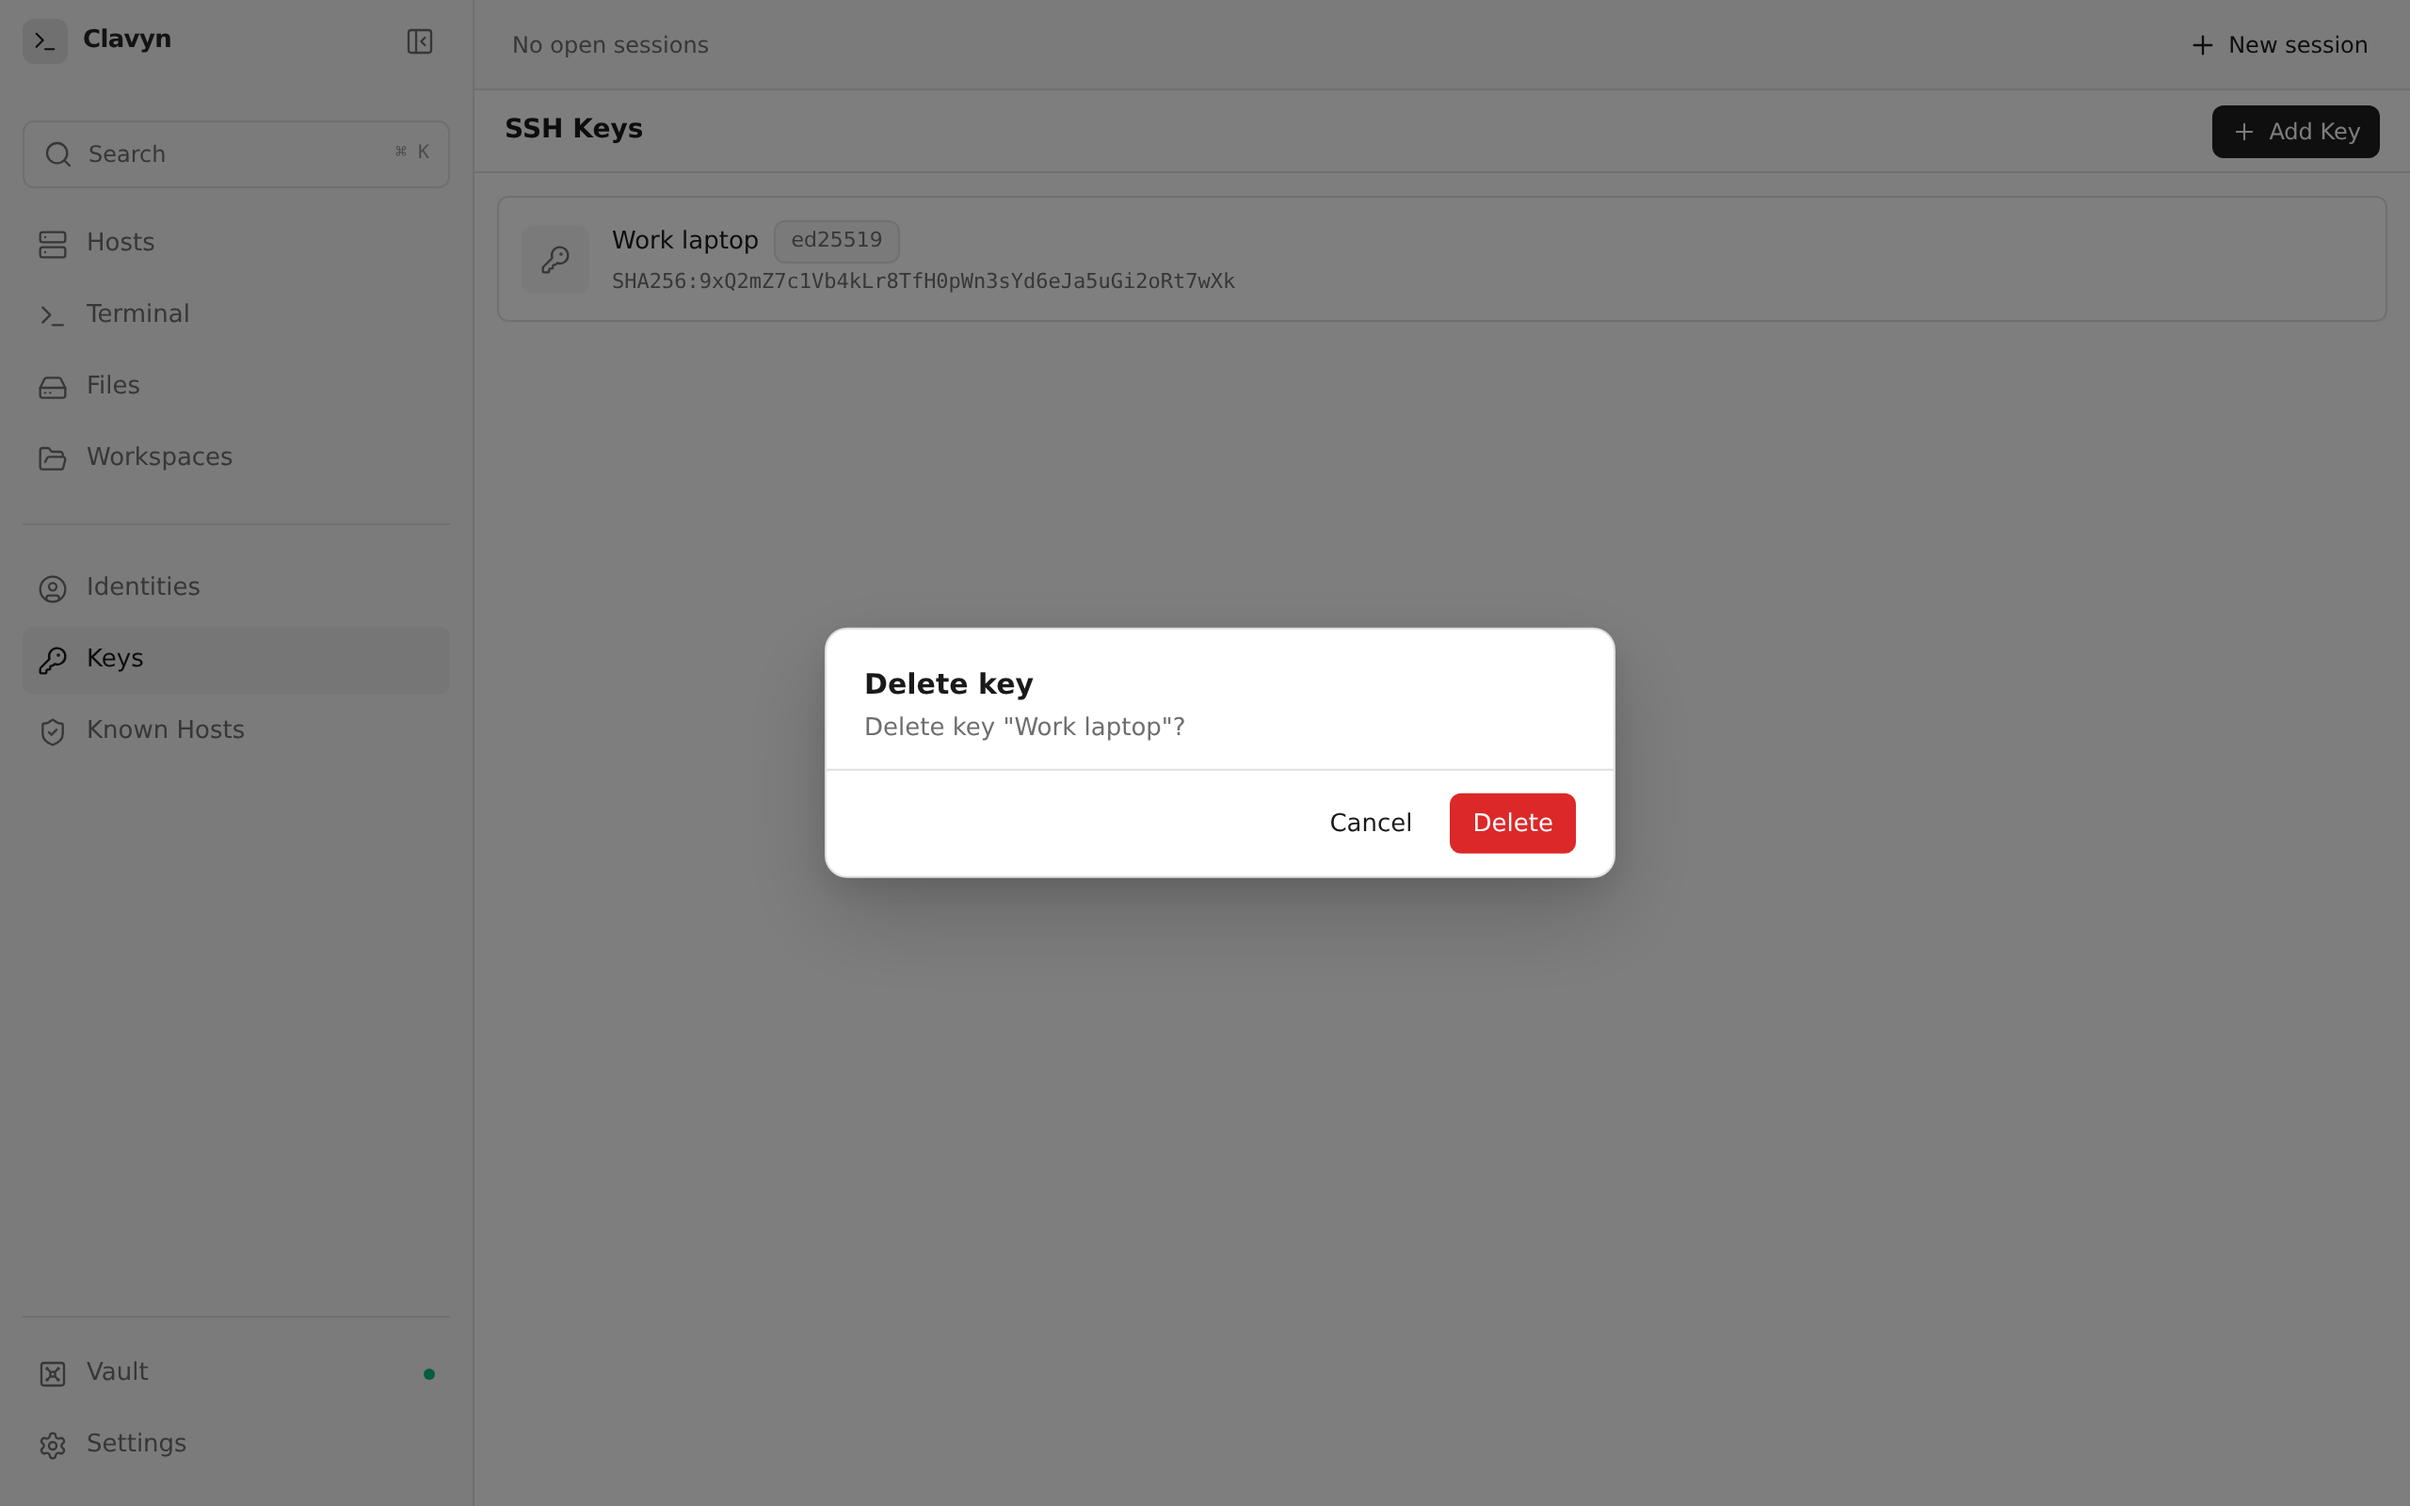
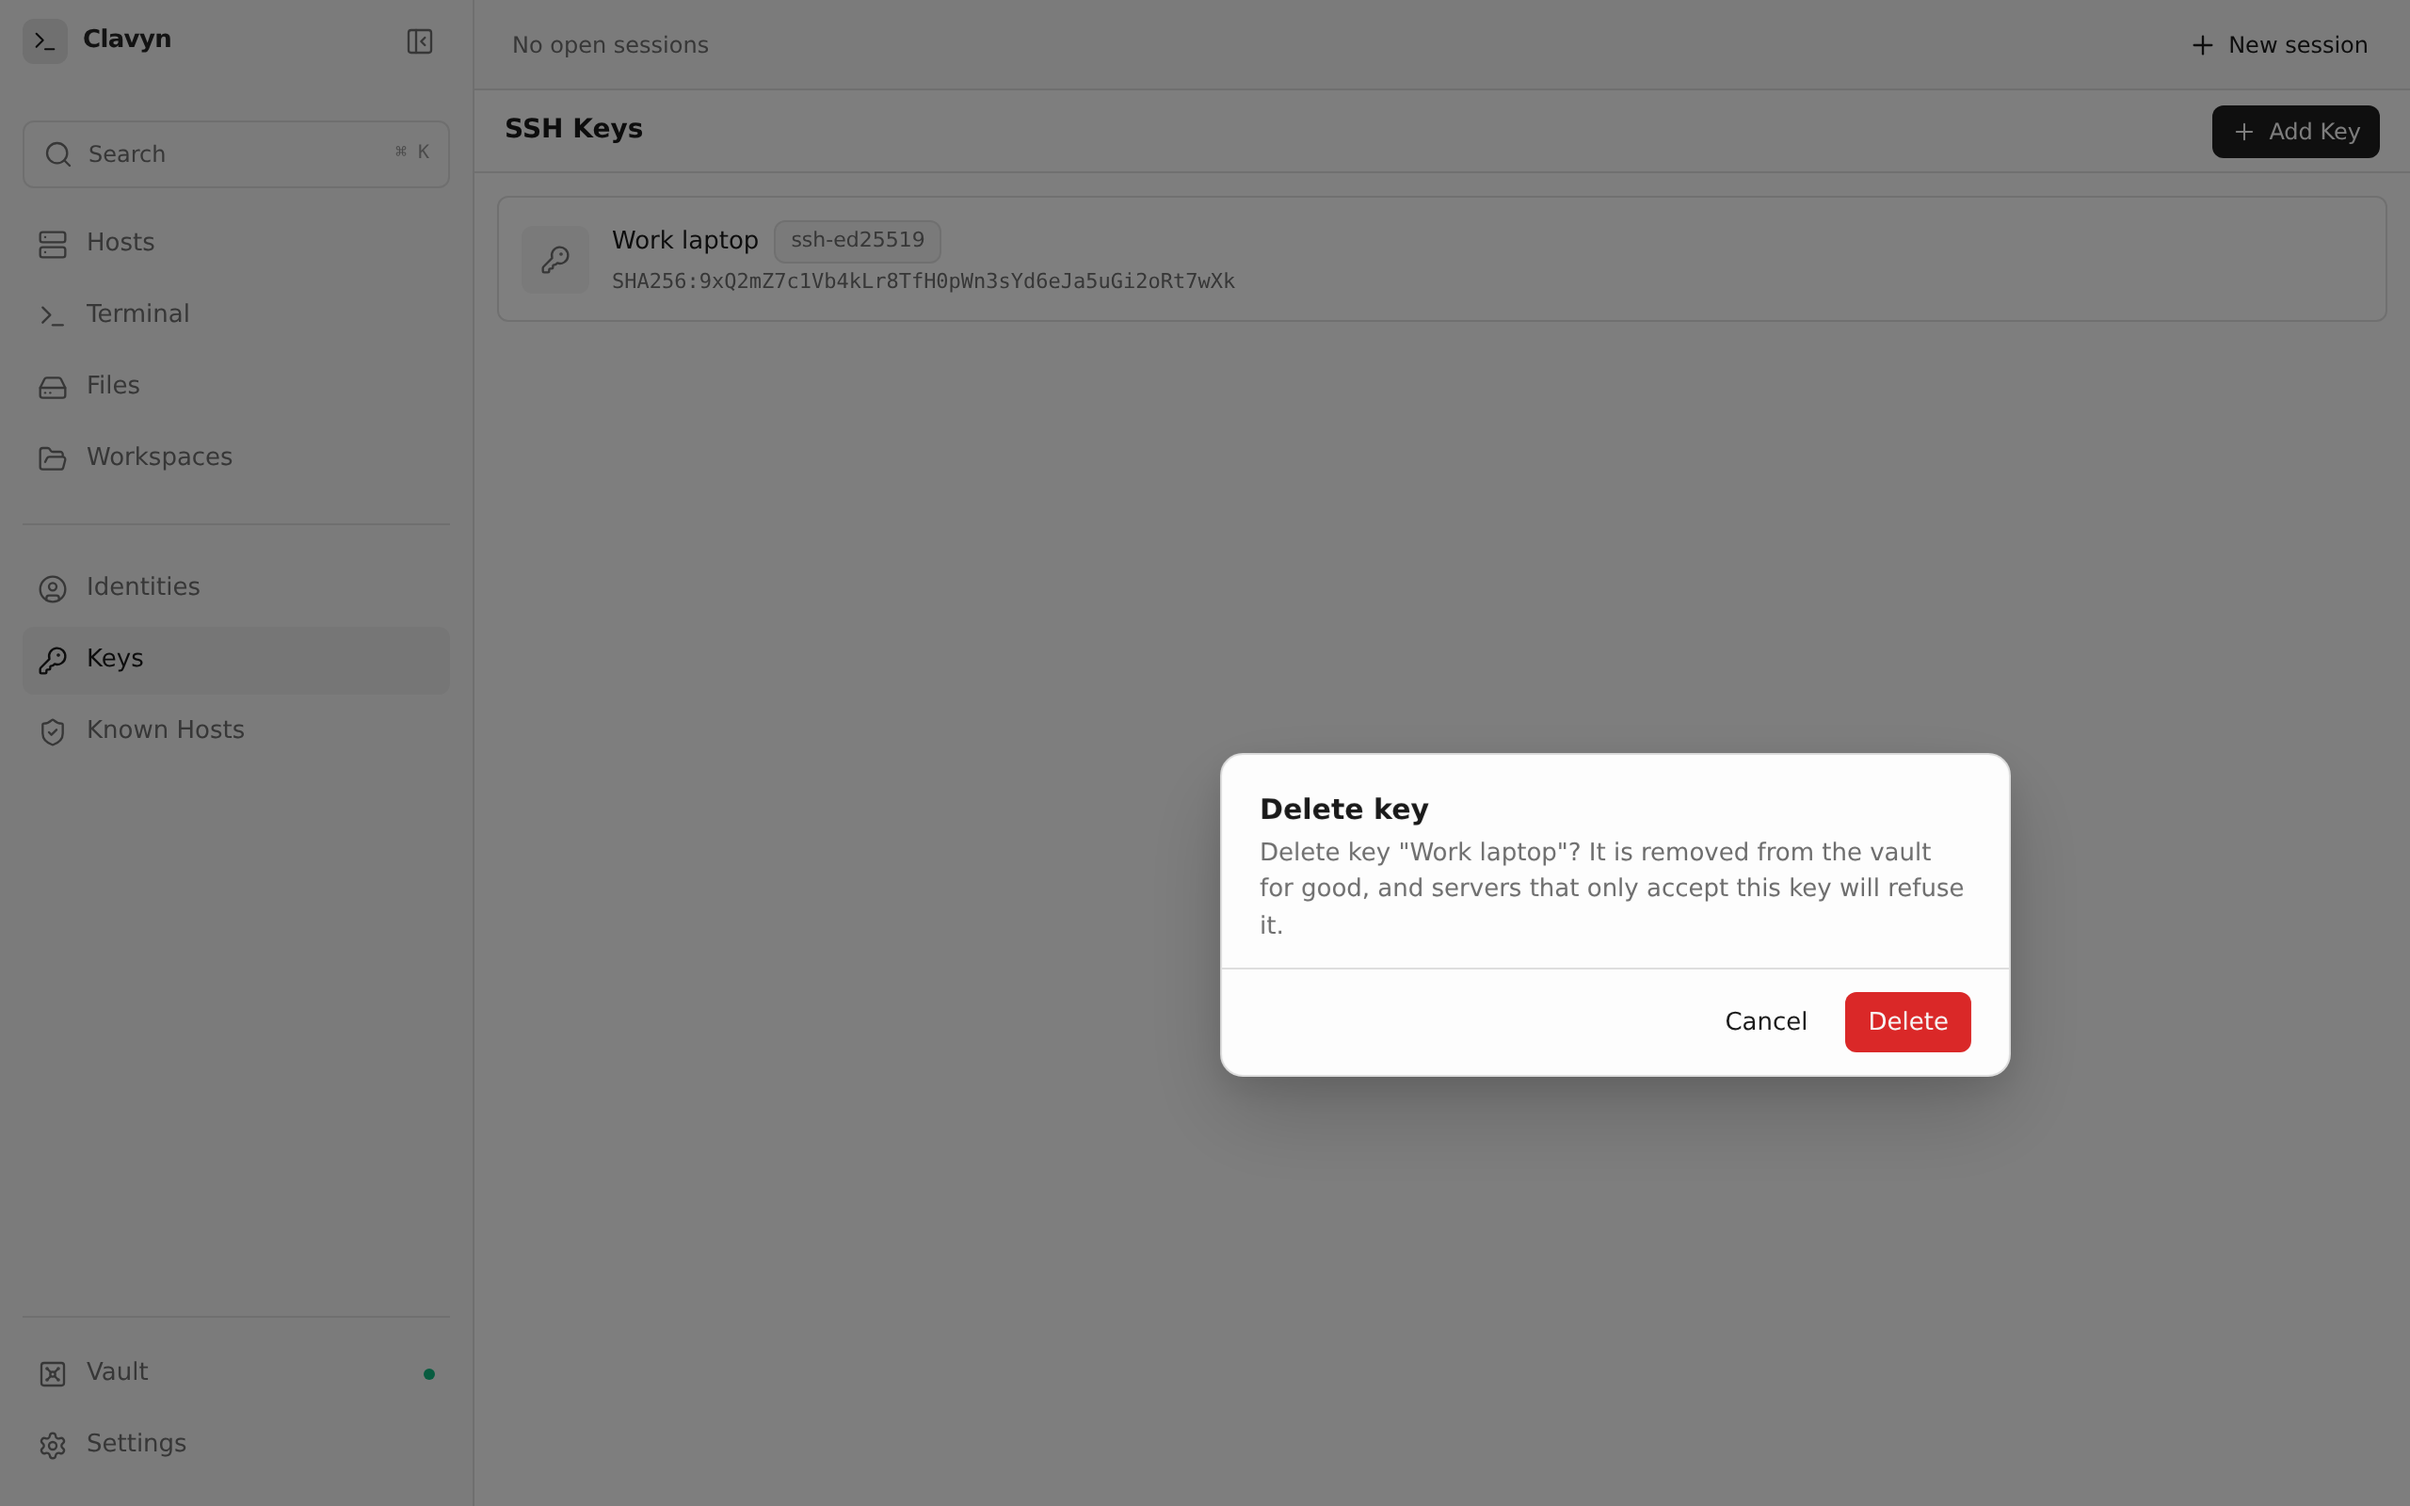
Say that deleting a key is permanent, and mask the host when removing a known host
A key generated in Clavyn exists only in the vault, so its delete
confirmation names the consequence. The known-host removal question is
now on the page, where the address-masking setting applies.

Changed region(s): [[0.3438, 0.4062, 0.8438, 0.7188], [0.3438, 0.1562, 0.375, 0.1875]]

diff --git a/desktop/src/components/KnownHostsView.test.ts b/desktop/src/components/KnownHostsView.test.ts
@@ -2,6 +2,7 @@ import { afterEach, beforeEach, describe, expect, it, vi } from "vitest";
 import { flushPromises, mount, type VueWrapper } from "@vue/test-utils";
 import { createPinia, setActivePinia } from "pinia";
 import * as api from "../api";
+import { useSettingsStore } from "../stores/settings";
 import KnownHostsView from "./KnownHostsView.vue";
 import { answerConfirmation, pendingConfirmation } from "../composables/useConfirm";
 
@@ -208,6 +209,18 @@ describe("KnownHostsView trusted hosts", () => {
     answerConfirmation(false);
     await flushPromises();
     expect(api.removeKnownHost).not.toHaveBeenCalled();
+  });
+
+  it("masks the host in the confirmation when addresses are masked", async () => {
+    useSettingsStore().maskAddresses = true;
+    const wrapper = mount(KnownHostsView);
+    await flushPromises();
+
+    await wrapper.get('button[aria-label="Remove known host"]').trigger("click");
+    await flushPromises();
+    expect(pendingConfirmation.value?.message).not.toContain("2001:db8");
+    answerConfirmation(false);
+    await flushPromises();
   });
 
   it("keeps the brackets of an IPv6 entry so the pair rebuilds it", async () => {

diff --git a/desktop/src/components/ConfirmActions.regression.test.ts b/desktop/src/components/ConfirmActions.regression.test.ts
@@ -107,7 +107,7 @@ describe("destructive actions wait for confirmation", () => {
     const args = await declineThenConfirm(
       () => wrapper!.get('button[aria-label="Delete key"]').trigger("click"),
       "delete_key",
-      'Delete key "laptop"?',
+      'Delete key "laptop"? It is removed from the vault for good, and servers that only accept this key will refuse it.',
     );
     expect(args).toEqual({ keyId: "key-1" });
   });

diff --git a/desktop/src/components/KeyManager.vue b/desktop/src/components/KeyManager.vue
@@ -135,7 +135,7 @@ function resetForm() {
 async function deleteKey(key: KeyMeta) {
   if (await confirmAction({
     title: "Delete key",
-    message: `Delete key "${key.label}"?`,
+    message: `Delete key "${key.label}"? It is removed from the vault for good, and servers that only accept this key will refuse it.`,
     confirmLabel: "Delete",
     destructive: true,
   })) {

diff --git a/desktop/src/components/KnownHostsView.vue b/desktop/src/components/KnownHostsView.vue
@@ -92,7 +92,7 @@ async function remove(entry: KnownHostEntry) {
   // "Forget permanently", which the backend confirms natively.
   const confirmed = await confirmAction({
     title: "Remove known host",
-    message: `Remove known host "${entry.host}"?`,
+    message: `Remove known host "${maskAddress(entry.host)}"?`,
     confirmLabel: "Remove",
     destructive: true,
   });
